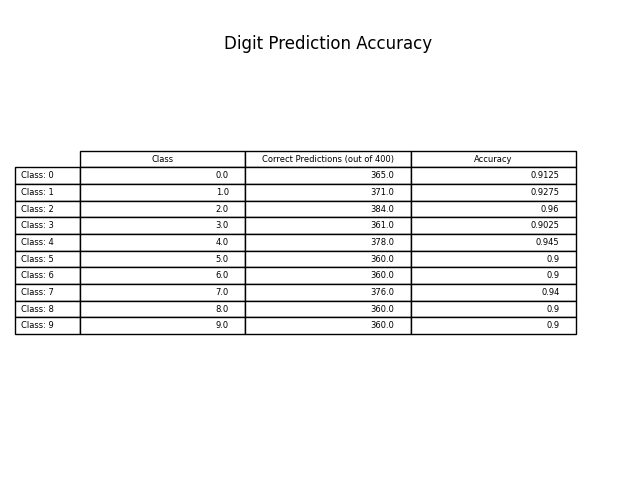
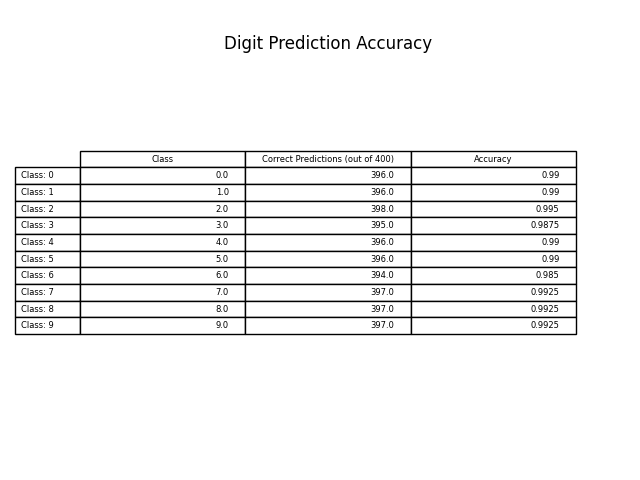
[ADD, FIX]: 1. created separate classes for activation functions, optimizers. 2. Bug fixed for single random prediction.

Changed region(s): [[0.8125, 0.3438, 0.875, 0.6875], [0.5938, 0.5625, 0.625, 0.625]]

diff --git a/ml/linear_regression.py b/ml/linear_regression.py
@@ -1,92 +1,35 @@
-from abc import ABC
-
 import numpy as np
 from pathlib import Path
 
-from typing import Tuple
-
+from ml.activation_functions import LinearActivationFunction
 from ml.models import RegressorModelParameters
-
-
-class GradientDescent(object):
-    def __init__(self, x: np.ndarray = None, y: np.ndarray = None, w: np.ndarray = None, b: np.ndarray = None,
-                 alpha: float = None, iters: int = None):
-        self.x = x
-        self.y = y
-        self.w = w
-        self.b = b
-        self.alpha = alpha
-        self.iters = iters
-
-    def compute_cost(self):
-        pass
-
-    def compute_gradient(self):
-        pass
-
-    def compute_gradient_descent(self):
-        pass
+from ml.optimizers import GradientDescent
 
 
 class LinearRegressor(object):
-    def __init__(self, nodes=1):
-        self.nodes = nodes
+    def __init__(self):
+        pass
 
-    def compute_f_x(self, x: np.ndarray, w: np.ndarray, b: np.array) -> np.ndarray:
-        return np.dot(x, w.T) + b
-
-    def compute_gradient(self, x: np.ndarray, y: np.ndarray, y_hat: np.array) -> Tuple[np.ndarray, np.ndarray]:
-        samples = y.shape[0]
-
-        dw = np.dot((y_hat - y).T, x) / samples
-        db = (y_hat - y).sum(axis=0) / samples
-
-        return dw, db
-
-    def compute_cost(self, y: np.ndarray, y_hat: np.array, get_y_pred: bool = False) -> [np.ndarray, np.ndarray]:
-        samples = y.shape[0]
-
-        cost = (y_hat - y) ** 2
-        cost = np.sum(cost, axis=0) / (2 * samples)
-
-        if get_y_pred:
-            return y_hat
-        else:
-            return cost
-
-    def gradient_descent(self, x: np.ndarray, y: np.ndarray, w: np.ndarray, b: np.array, alpha: float,
-                         iters: int) -> Tuple[np.ndarray, np.array, np.ndarray]:
-        cost_list = np.zeros((iters, self.nodes))
-
-        for i in range(iters):
-            print('Starting iteration {} ...'.format(i))
-
-            y_pred = self.compute_f_x(x, w, b)
-            cost = self.compute_cost(y=y, y_hat=y_pred)
-
-            print('Cost after iteration {}: {}'.format(i, cost))
-            cost_list[i] = cost
-            dw, db = self.compute_gradient(x=x, y=y, y_hat=y_pred)
-            w_tmp = w - alpha * dw
-            b_tmp = b - alpha * db
-            w = w_tmp
-            b = b_tmp
-
-        return w, b, cost_list
-
-    def train(self, xTrain: np.ndarray, yTrain: np.ndarray, parameters: RegressorModelParameters,
-              learning_rate: float, iterations: int, weights_filepath: Path = None) -> RegressorModelParameters:
+    @staticmethod
+    def train(xTrain: np.ndarray, yTrain: np.ndarray, parameters: RegressorModelParameters,
+              optimizer: GradientDescent, activation: LinearActivationFunction,
+              learning_rate: float, iterations: int, nodes=1, weights_filepath: Path = None) -> RegressorModelParameters:
         w_init, b_init = parameters.load_initial_weights(filepath=weights_filepath)
 
-        w_min, b_min, cost_list = self.gradient_descent(x=xTrain, y=yTrain, w=w_init, b=b_init, alpha=learning_rate,
-                                                        iters=iterations)
+        w_min, b_min, cost_list = optimizer.gradient_descent(x=xTrain, y=yTrain, w=w_init, b=b_init,
+                                                             nodes=nodes, a=activation, alpha=learning_rate,
+                                                             iters=iterations)
+
         print('Optimum weights and bias are: {}, {}'.format(w_min, b_min))
         parameters.save_weights(weights=w_min, bias=b_min, cost_history=cost_list, filepath=weights_filepath)
+
         return parameters
 
-    def predict(self, xTest: np.ndarray, yTest: np.ndarray,
-                parameters: RegressorModelParameters, weights_filepath: Path = None) -> Tuple[np.array, np.array]:
+    @staticmethod
+    def predict(xTest: np.ndarray, parameters: RegressorModelParameters,
+                activation: LinearActivationFunction, weights_filepath: Path = None) -> np.array:
         print('Predicting...')
         w_min, b_min = parameters.load_optimum_weights(weights_filepath)
-        y_pred = self.compute_f_x(x=xTest, w=w_min, b=b_min)
-        return self.compute_cost(y=yTest,y_hat=y_pred, get_y_pred=True)
+        y_pred = activation.compute_f_x(X=xTest, w=w_min, b=b_min)
+        y_pred = (y_pred == y_pred.max(axis=1, keepdims=1)).astype(int)
+        return y_pred

diff --git a/main.py b/main.py
@@ -2,10 +2,10 @@ from pathlib import Path
 
 import numpy as np
 
-from contants import total_digits
-from ml.linear_regression import LinearRegressor
+from contants import total_digits, image_size
+from ml.linear_regression import LinearRegressor, GradientDescent, LinearActivationFunction
 from ml.models import RegressorModelParameters
-from ml.plots import plot_cost, plot_result
+from ml.plots import plot_cost, plot_result, plot_digit
 from ml.statistics import Normalizer, OneHotEncoder
 from preprocessing import ImageDataSet
 
@@ -31,31 +31,41 @@ W_init = np.zeros((total_digits, X_train.shape[1]))
 b_init = np.zeros(total_digits)
 
 # Performing Linear Regression
-linear_regressor = LinearRegressor(total_digits)
-model_paras = RegressorModelParameters(w_init=W_init, b_init=b_init, filepath=WEIGHTS_DIR)
-# gradient_descent = GradientDescent()
-model_paras = linear_regressor.train(xTrain=X_train, yTrain=y_train, parameters=model_paras, learning_rate=1e-2,
-                                     iterations=10)
+linear_regressor = LinearRegressor()
+gradient_descent = GradientDescent()
+activation_function = LinearActivationFunction()
+initial_model_paras = RegressorModelParameters(
+    w_init=W_init,
+    b_init=b_init,
+    filepath=WEIGHTS_DIR
+)
+trained_model_paras = linear_regressor.train(
+    xTrain=X_train,
+    yTrain=y_train,
+    nodes=total_digits,
+    parameters=initial_model_paras,
+    optimizer=gradient_descent,
+    activation=activation_function,
+    learning_rate=1e-2,
+    iterations=100
+)
 
 # Load saved weights to avoid training
-# model_paras = RegressorModelParameters()
-# model_paras.load_optimum_weights(filepath=WEIGHTS_DIR)
+# trained_model_paras = RegressorModelParameters()
+# trained_model_paras.load_optimum_weights(filepath=WEIGHTS_DIR)
 
-# Filepath argument needed when loading parameters without training
-cost_list = model_paras.load_plot_history()
-
-plot_cost(filepath=ROOT_DIR / Path('results/lr_cost.png'), cost=cost_list)
-y_pred = linear_regressor.predict(xTest=X_test, yTest=y_test, parameters=model_paras)
+plot_cost(filepath=ROOT_DIR / Path('results/lr_cost.png'), cost=trained_model_paras.load_plot_history())
+y_pred = linear_regressor.predict(xTest=X_test, parameters=trained_model_paras,
+                                  activation=activation_function)
 plot_result(filepath=ROOT_DIR / Path('results/lr_result.png'), pred=y_pred, target=y_test)
 
 # Prediction of random sample
-# random_digit = np.random.randint(0, 10, size=1)
-# random_index = np.random.randint(0, 200, size=1)
-# random_sample = img_data[random_digit, random_index, :].reshape(-1, image_size)
-# linear_regressor.plot_digit(random_sample)
-# random_sample = normalizer.normalize(random_sample)
+# random_digit = np.random.randint(0, 10)
+# random_index = np.random.randint(0, 40)
+# random_sample = X_test[(random_digit * 40) + random_index].reshape(-1, image_size)
+# plot_digit(random_sample)
 # test_target = np.array([np.zeros(10),])
 # test_target[0, random_digit] = 1        # Providing target y
-# predicted_digit = linear_regressor.predict(xTest=random_sample, yTest=test_target, wMin=w_min, bMin=b_min)
-# predicted_digit = np.argmax(np.round(predicted_digit).astype(int))
+# y_pred = linear_regressor.predict(xTest=random_sample, parameters=trained_model_paras, activation=activation_function)
+# predicted_digit = np.argmax(np.round(y_pred).astype(int))
 # print("Predicted digit: {} and actual digit: {}".format(predicted_digit, random_digit))

diff --git a/ml/optimizers.py b/ml/optimizers.py
@@ -1,0 +1,49 @@
+from typing import Tuple
+
+import numpy as np
+
+from ml.activation_functions import ActivationFunction
+
+
+class GradientDescent(object):
+    @staticmethod
+    def compute_gradient(x: np.ndarray, y: np.ndarray, y_hat: np.array) -> Tuple[np.ndarray, np.ndarray]:
+        samples = y.shape[0]
+
+        dw = np.dot((y_hat - y).T, x) / samples
+        db = (y_hat - y).sum(axis=0) / samples
+
+        return dw, db
+
+    @staticmethod
+    def compute_cost(y: np.ndarray, y_hat: np.array, get_y_pred: bool = False) -> [np.ndarray, np.ndarray]:
+        samples = y.shape[0]
+
+        cost = (y_hat - y) ** 2
+        cost = np.sum(cost, axis=0) / (2 * samples)
+
+        if get_y_pred:
+            return y_hat
+        else:
+            return cost
+
+    @classmethod
+    def gradient_descent(cls, x: np.ndarray, y: np.ndarray, w: np.ndarray, b: np.array, nodes: int,
+                         a: ActivationFunction, alpha: float, iters: int) -> Tuple[np.ndarray, np.array, np.ndarray]:
+        cost_list = np.zeros((iters, nodes))
+
+        for i in range(iters):
+            print('Starting iteration {} ...'.format(i))
+
+            y_pred = a.compute_f_x(x, w, b)
+            cost = cls.compute_cost(y=y, y_hat=y_pred)
+
+            print('Cost after iteration {}: {}'.format(i, cost))
+            cost_list[i] = cost
+            dw, db = cls.compute_gradient(x=x, y=y, y_hat=y_pred)
+            w_tmp = w - alpha * dw
+            b_tmp = b - alpha * db
+            w = w_tmp
+            b = b_tmp
+
+        return w, b, cost_list

diff --git a/ml/activation_functions.py b/ml/activation_functions.py
@@ -1,0 +1,42 @@
+from abc import ABC
+
+import numpy as np
+
+
+class ActivationFunction(ABC):
+    def __init__(self):
+        self.X = None
+        self.w = None
+        self.b = None
+
+    @staticmethod
+    def compute_f_x(X: np.ndarray, w: np.ndarray, b: np.ndarray) -> np.ndarray:
+        pass
+
+
+class LinearActivationFunction(ActivationFunction):
+    def __init__(self):
+        super().__init__()
+
+    @staticmethod
+    def compute_f_x(X: np.ndarray, w: np.ndarray, b: np.ndarray) -> np.ndarray:
+        return np.dot(X, w.T) + b
+
+
+class LogisticActivationFunction(ActivationFunction):
+    def __init__(self):
+        super().__init__()
+
+    @staticmethod
+    def compute_f_x(X: np.ndarray, w: np.ndarray, b: np.ndarray) -> np.ndarray:
+        def sigmoid(x: np.ndarray) -> np.ndarray:
+            return 1 / (1 + np.exp(-x))
+
+        fx = LinearActivationFunction()
+        fx = fx.compute_f_x(X, w, b)
+        return sigmoid(fx)
+
+
+class ReLUActivationFunction(ActivationFunction):
+    def compute_f_x(self, X: np.ndarray, w: np.ndarray, b: np.ndarray) -> np.ndarray:
+        pass

diff --git a/ml/statistics.py b/ml/statistics.py
@@ -11,7 +11,6 @@ class Normalizer(object):
             self.mu = np.mean(X, axis=0)
         if self.sigma is None:
             self.sigma = np.std(X, axis=0)
-        print("mu and sigma are: {}, {}".format(self.mu, self.sigma))
         x_norm = (X - self.mu) / self.sigma
         return x_norm
 

diff --git a/ml/plots.py b/ml/plots.py
@@ -26,7 +26,6 @@ def plot_cost(filepath: Path, cost: np.array):
 
 def plot_result(filepath: Path, pred: np.array, target: np.array):
     samples = len(target)
-    pred = np.round(pred).astype(int)
     table_data = np.zeros((10, 3))
 
     for node in range(pred.shape[1]):
